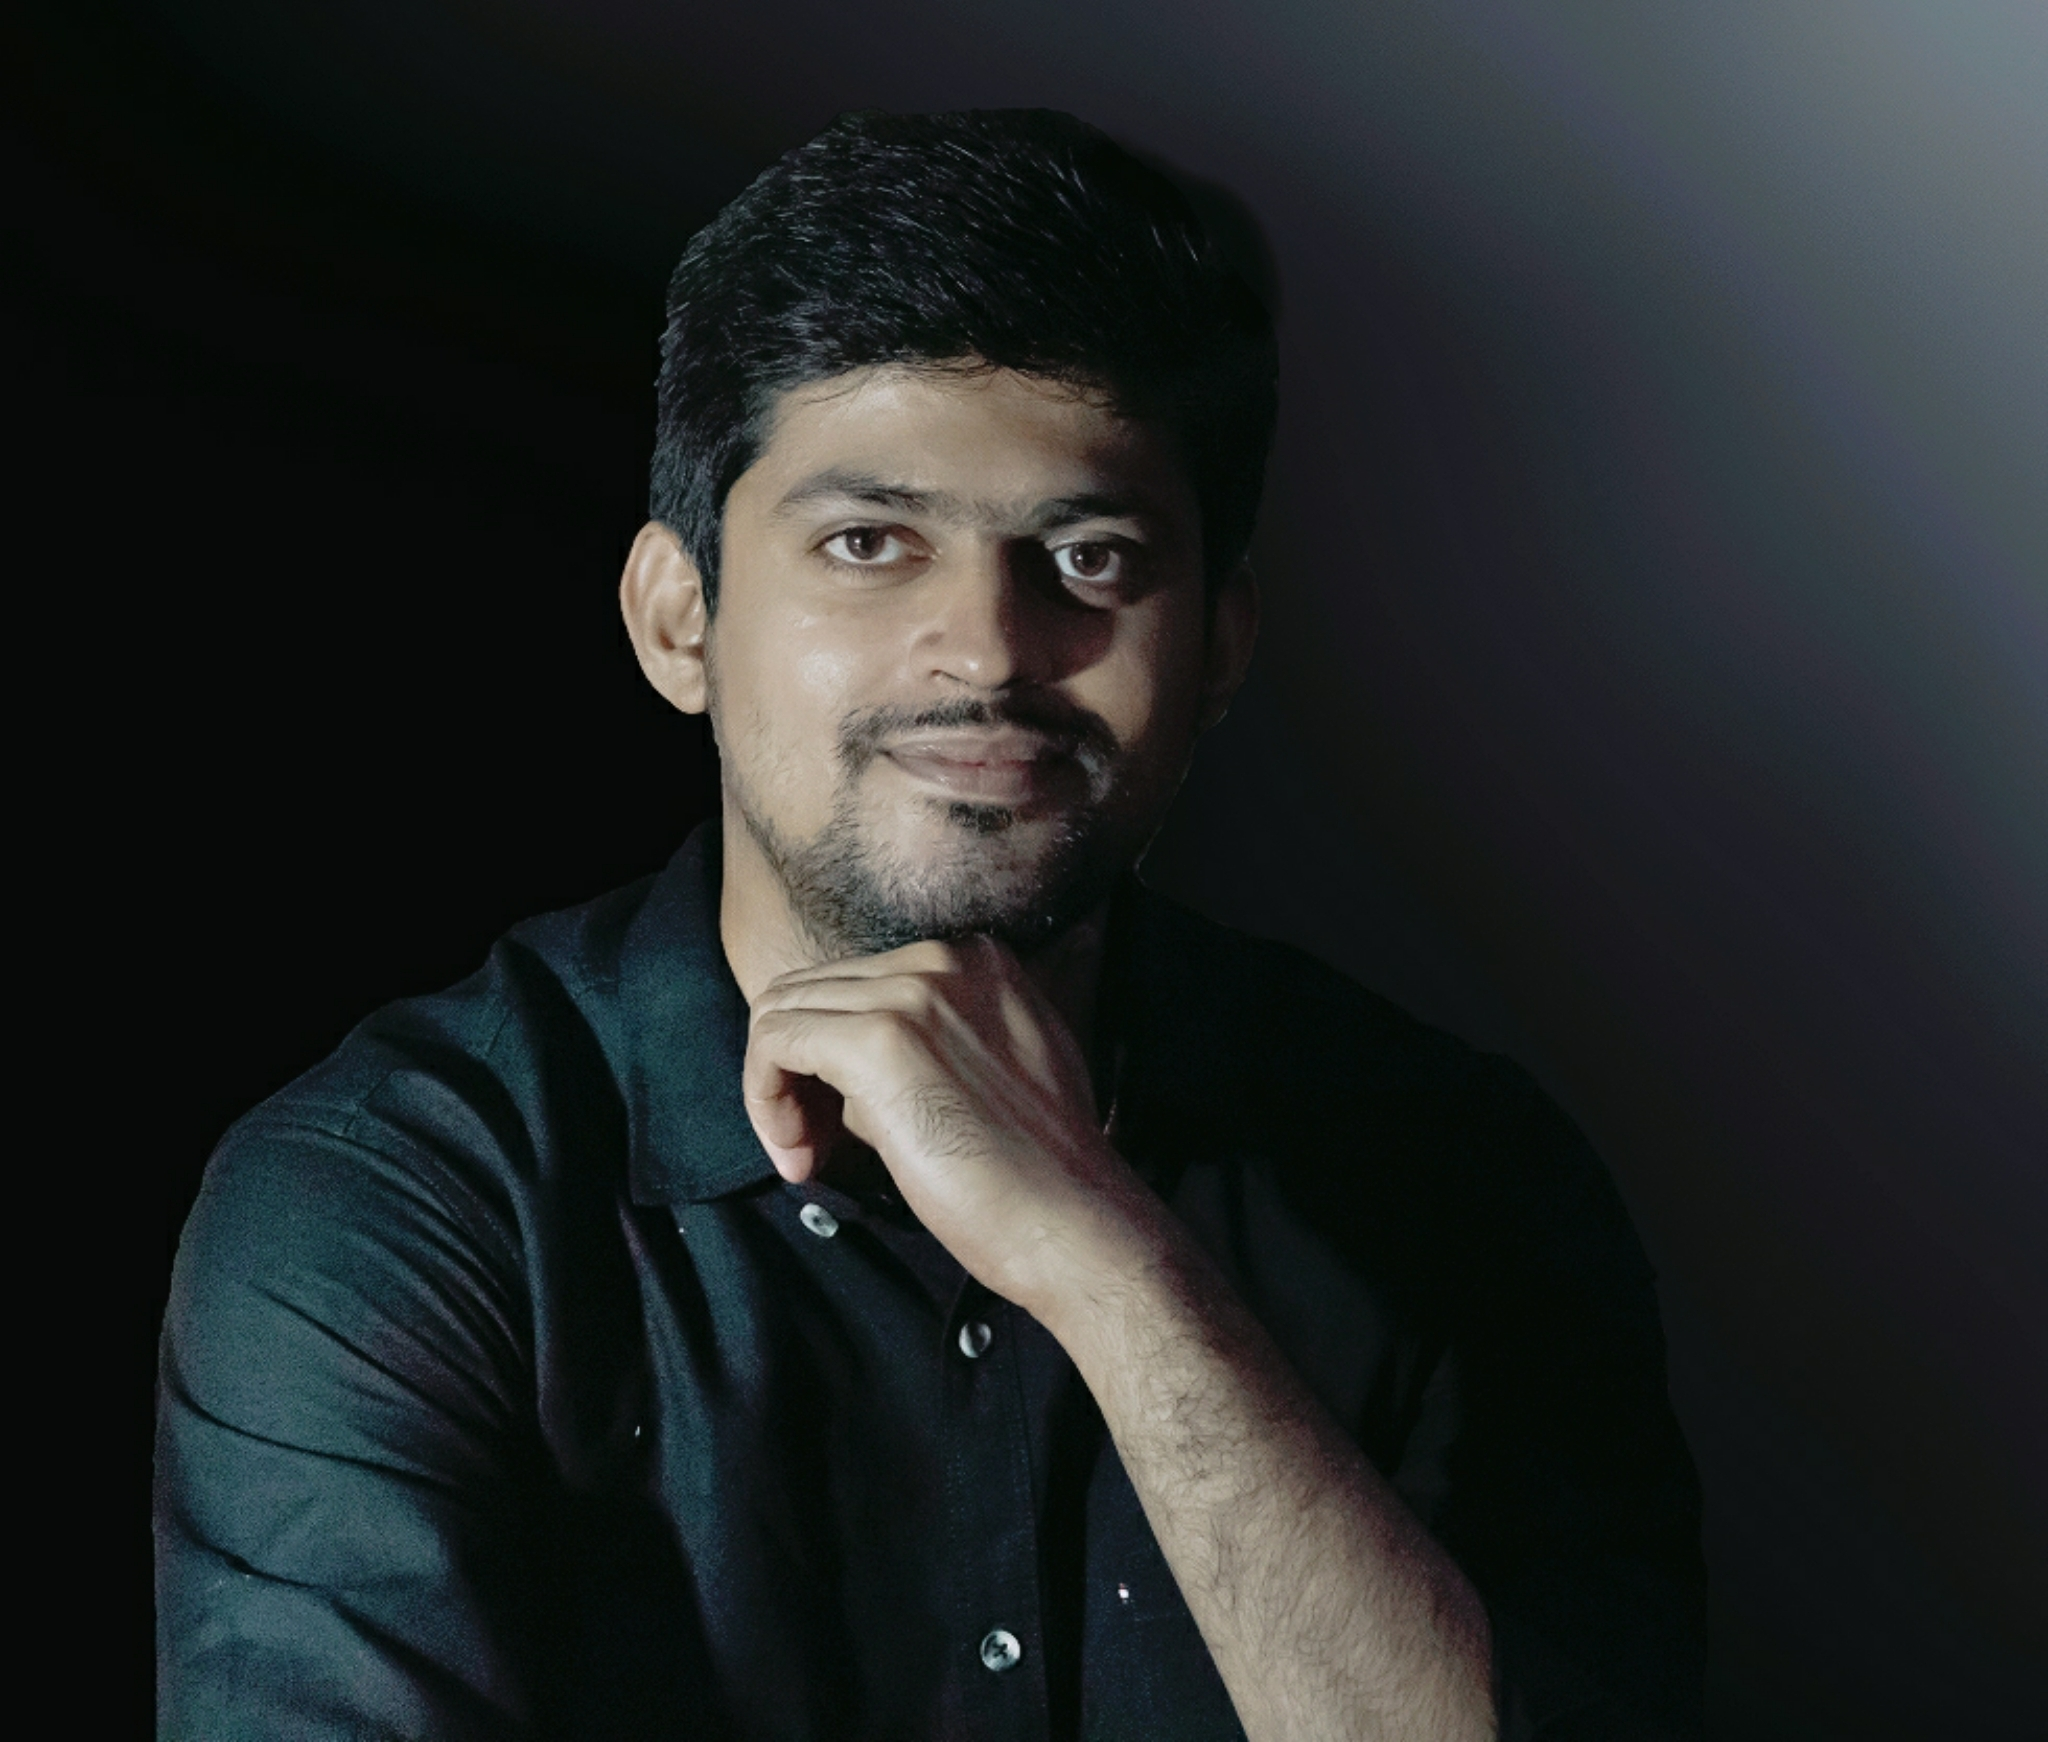
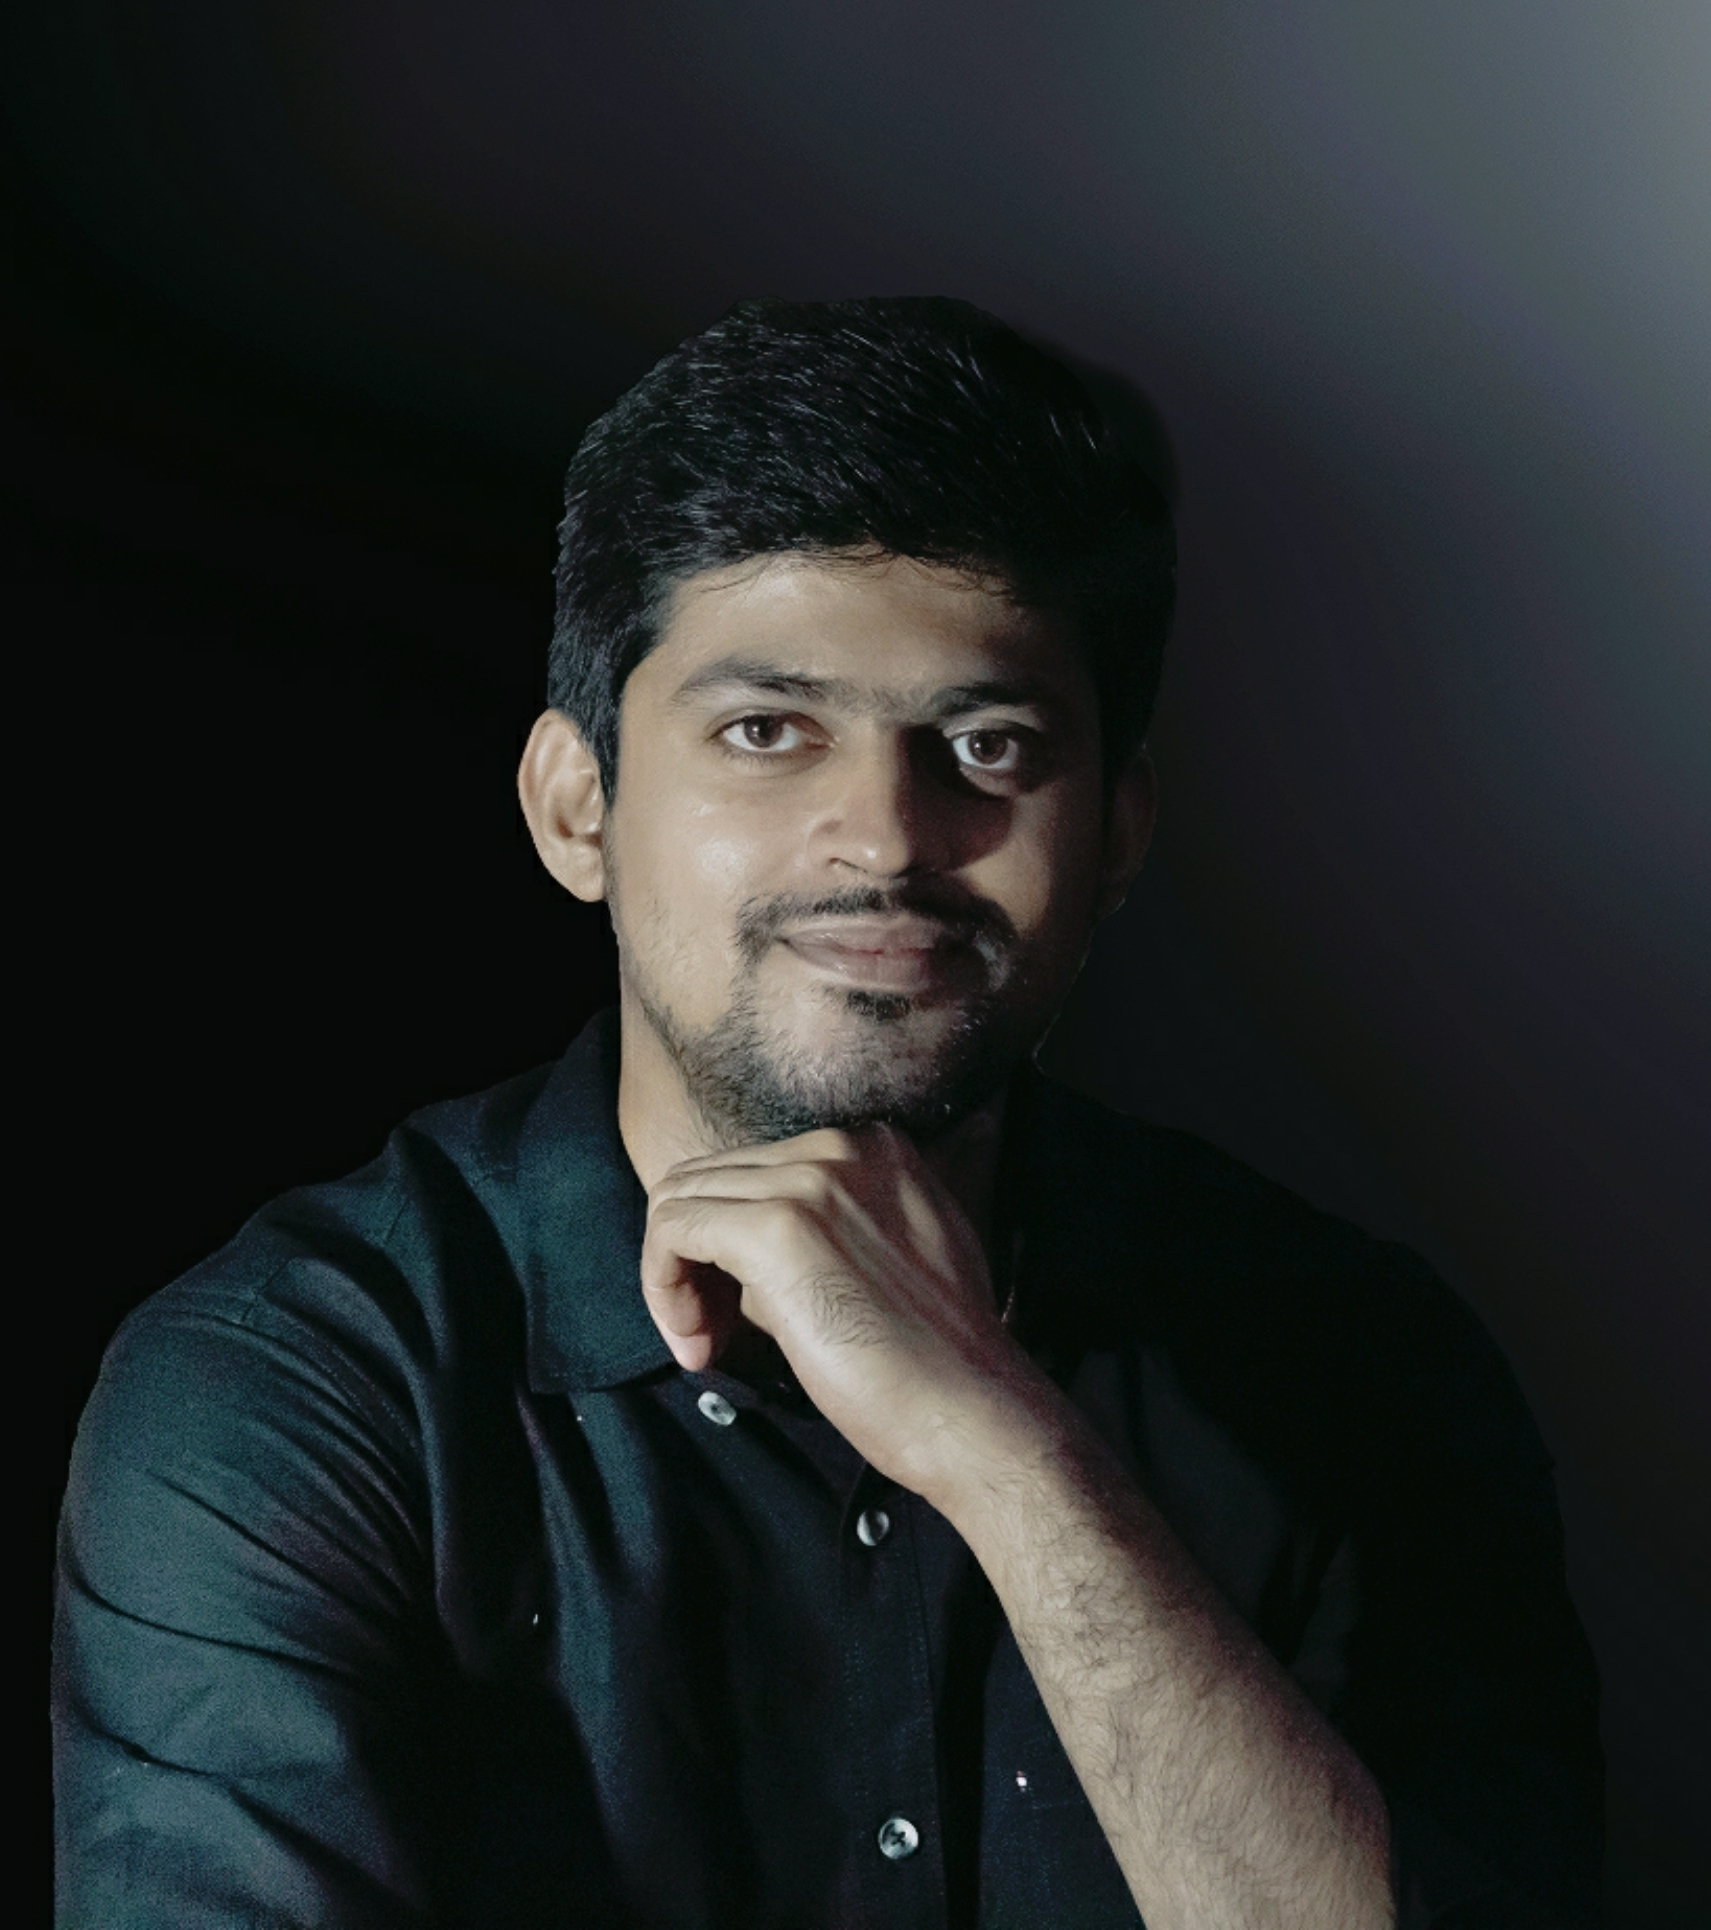
chnages4

diff --git a/src/pages/Home.js b/src/pages/Home.js
@@ -26,7 +26,7 @@ const Home = () => {
               <SocialMedia/>
         </div>
         <div>
-            <img src="../../images/profile_image.jpg" alt="" className=' h-[8rem] w-[9rem] md:mt-0 mt-3 md:h-[25rem] md:w-[40rem] md:mx-auto md:ml-10 md:rounded-3xl rounded-lg shadow-md shadow-white '  />
+            <img src="../../images/profile_image.jpg" alt="" className=' h-[8rem] w-[9rem] md:mt-0 mt-3 md:h-[20rem] md:w-[18rem] md:mx-auto md:ml-10 md:rounded-3xl rounded-lg shadow-md shadow-white '  />
         </div>
       </div>
     </div>
